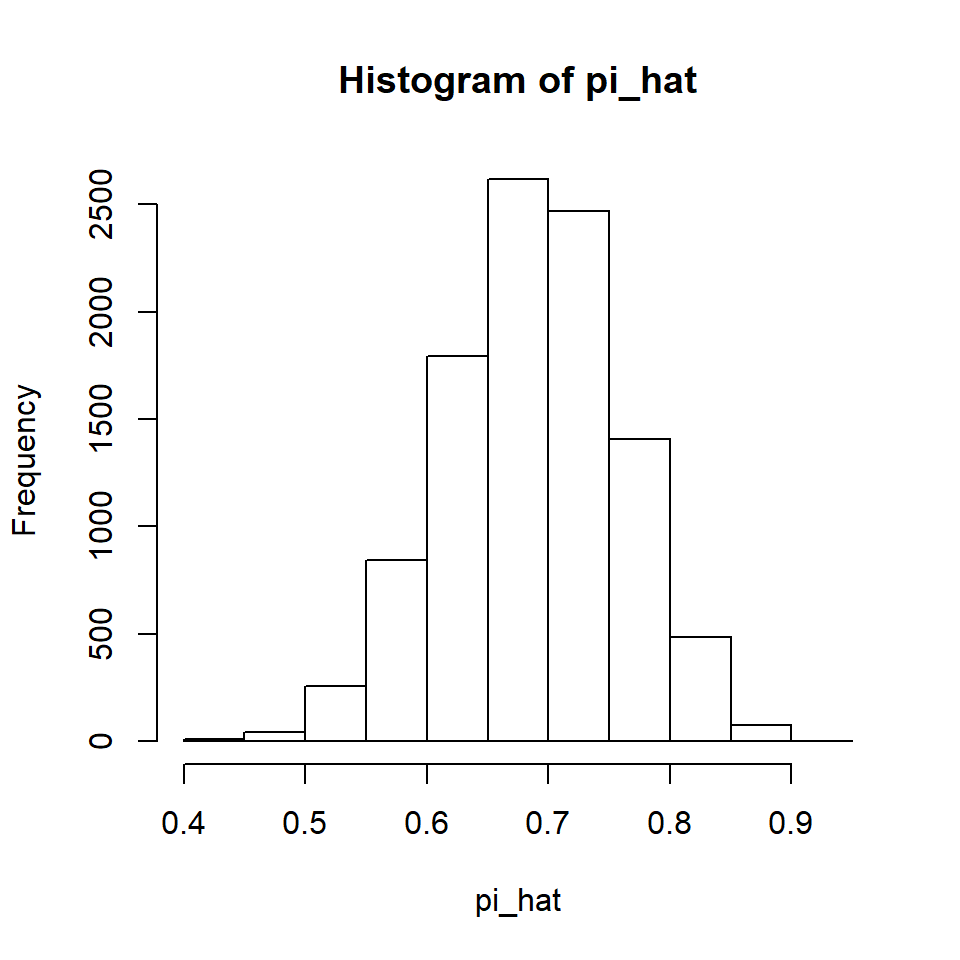
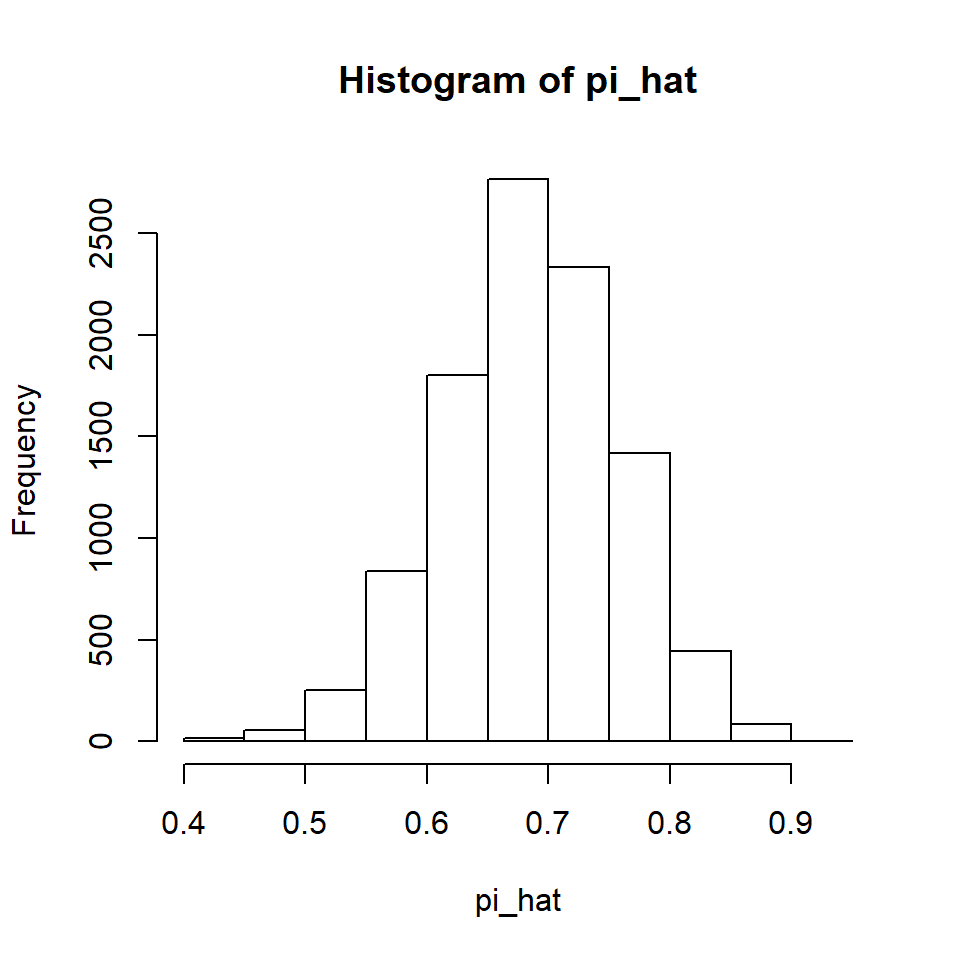
Version 0.0.0.9009 in master

diff --git a/docs/articles/lsprop.html b/docs/articles/lsprop.html
@@ -115,8 +115,8 @@
 <span id="cb2-2"><a href="#cb2-2"></a>pi &lt;-<span class="st"> </span><span class="fl">0.7</span></span>
 <span id="cb2-3"><a href="#cb2-3"></a></span>
 <span id="cb2-4"><a href="#cb2-4"></a><span class="kw"><a href="https://www.rdocumentation.org/packages/Rlab/topics/Bernoulli">rbern</a></span>(n, pi)</span>
-<span id="cb2-5"><a href="#cb2-5"></a><span class="co">#&gt;  [1] 0 1 1 1 1 1 1 1 1 0 1 0 0 1 0 0 1 1 1 1 1 1 0 1 0 1 1 0 1 1 0 0 1 0 0</span></span>
-<span id="cb2-6"><a href="#cb2-6"></a><span class="co">#&gt; [36] 1 0 1 1 0</span></span></code></pre></div>
+<span id="cb2-5"><a href="#cb2-5"></a><span class="co">#&gt;  [1] 1 0 1 1 1 1 1 1 0 0 1 1 0 0 1 1 1 1 0 1 1 1 1 1 1 0 1 0 0 1 1 1 1 1 1</span></span>
+<span id="cb2-6"><a href="#cb2-6"></a><span class="co">#&gt; [36] 1 1 1 0 0</span></span></code></pre></div>
 <p>Now we will repeat this simulation 10,000 times. Each time, we will calculate the proportion success in the sample and save it.</p>
 <div class="sourceCode" id="cb3"><pre class="sourceCode r"><code class="sourceCode r"><span id="cb3-1"><a href="#cb3-1"></a>reps &lt;-<span class="st"> </span><span class="dv">10000</span></span>
 <span id="cb3-2"><a href="#cb3-2"></a></span>
@@ -126,7 +126,7 @@
 <p><img src="lsprop_files/figure-html/unnamed-chunk-4-1.png" width="480"></p>
 <p>We can see the CLT at work. Further, note that if we calculate the mean of all 10,000 values of the sample proportions, it is quite close to the population proportion of 0.7.</p>
 <div class="sourceCode" id="cb5"><pre class="sourceCode r"><code class="sourceCode r"><span id="cb5-1"><a href="#cb5-1"></a><span class="kw"><a href="https://www.rdocumentation.org/packages/base/topics/mean">mean</a></span>(pi_hat)</span>
-<span id="cb5-2"><a href="#cb5-2"></a><span class="co">#&gt; [1] 0.700245</span></span></code></pre></div>
+<span id="cb5-2"><a href="#cb5-2"></a><span class="co">#&gt; [1] 0.6993775</span></span></code></pre></div>
 <p>When the mean of a statistic’s sampling distribution is the population value of the parameter the statistic is estimating, we refer to the statistic as <em>unbiased</em>. This is a desirable property because it tells us that the average of many wrongs is a right!</p>
 <p>If we increase the sample size, we can see the Law of Large Numbers at work. Let’s try increasing it from 40 to 200.</p>
 <div class="sourceCode" id="cb6"><pre class="sourceCode r"><code class="sourceCode r"><span id="cb6-1"><a href="#cb6-1"></a>n &lt;-<span class="st"> </span><span class="dv">200</span></span>

diff --git a/docs/articles/binomdist.html b/docs/articles/binomdist.html
@@ -282,7 +282,7 @@
 <p>The important trick to remember here is that if we want an upper tail that includes a specified value (in this case, the value of eight), we need to subtract one from this value to make sure it is included in the upper region of the distribution.</p>
 <p>Finally, suppose we wanted to do a simulation using the binomial distribution. Here are 20 random draws from a distribution with <span class="math inline">\(\pi\)</span> = 0.8 when the sample size is 15.</p>
 <div class="sourceCode" id="cb37"><pre class="sourceCode r"><code class="sourceCode r"><span id="cb37-1"><a href="#cb37-1"></a><span class="kw"><a href="https://www.rdocumentation.org/packages/stats/topics/Binomial">rbinom</a></span>(<span class="dv">20</span>, <span class="dv">15</span>, <span class="fl">0.8</span>)</span>
-<span id="cb37-2"><a href="#cb37-2"></a><span class="co">#&gt;  [1] 10  9 11 14 12 12 12 12 11 12 14 12 12 14 13 11 14 13 12 12</span></span></code></pre></div>
+<span id="cb37-2"><a href="#cb37-2"></a><span class="co">#&gt;  [1] 13 12 11 12 11 14 13 13 12 10 13 15  9 10 12 13  8 13 13 10</span></span></code></pre></div>
 <p>Keep in mind that what each number we are randomly generating is the value of <span class="math inline">\(x\)</span>, which is the number of successes in <span class="math inline">\(n\)</span> trials. In this example there are 15 opportunities for success. The probability of success is quite high, so we are primarily seeing high numbers of successes out of the 15 trials.</p>
 <p>In this example, we were drawing from a binomial distribution with <span class="math inline">\(n\)</span> trials and a probability of success, <span class="math inline">\(\pi\)</span>. These are the parameters of the binomial distribution. Any binomial distribution can be generated if we know these two parameters. Let’s end with a picture of a binomial distribution when <span class="math inline">\(n\)</span> = 100 and <span class="math inline">\(\pi\)</span> = 0.5.</p>
 <div class="sourceCode" id="cb38"><pre class="sourceCode r"><code class="sourceCode r"><span id="cb38-1"><a href="#cb38-1"></a><span class="kw"><a href="../reference/binom_plot.html">binom_plot</a></span>(<span class="dv">100</span>, <span class="fl">0.5</span>)</span></code></pre></div>

diff --git a/docs/articles/Bernoulli-Events.html b/docs/articles/Bernoulli-Events.html
@@ -195,10 +195,10 @@
 <a href="#random-variates" class="anchor"></a>Random variates</h3>
 <p>R also has (r) functions for many distributions (e.g., rnorm and rbern). These provide us a specified number of randomly seleted values from the corresponding distribution. These are known as “random variates”. This will be very handy when we study concepts such as Monte Carlo methods.</p>
 <div class="sourceCode" id="cb15"><pre class="sourceCode r"><code class="sourceCode r"><span id="cb15-1"><a href="#cb15-1"></a><span class="kw"><a href="https://www.rdocumentation.org/packages/stats/topics/Normal">rnorm</a></span>(<span class="dv">10</span>)</span>
-<span id="cb15-2"><a href="#cb15-2"></a><span class="co">#&gt;  [1] -0.3018779  0.1749264 -0.8657828 -0.3663297  2.0149144  0.9609493</span></span>
-<span id="cb15-3"><a href="#cb15-3"></a><span class="co">#&gt;  [7] -1.4893730  1.1600762 -0.9631322  2.0694955</span></span>
+<span id="cb15-2"><a href="#cb15-2"></a><span class="co">#&gt;  [1] -2.1103707  0.4698937 -0.5272579 -0.1221517  0.0620785  0.7662863</span></span>
+<span id="cb15-3"><a href="#cb15-3"></a><span class="co">#&gt;  [7] -0.1004652  1.5829366  0.1003272  0.4926329</span></span>
 <span id="cb15-4"><a href="#cb15-4"></a><span class="kw">rbern</span>(<span class="dv">10</span>, <span class="fl">0.7</span>)</span>
-<span id="cb15-5"><a href="#cb15-5"></a><span class="co">#&gt;  [1] 0 0 1 1 1 1 0 1 1 1</span></span></code></pre></div>
+<span id="cb15-5"><a href="#cb15-5"></a><span class="co">#&gt;  [1] 1 1 0 1 1 1 0 1 0 1</span></span></code></pre></div>
 </div>
   </div>
 

diff --git a/doc/Bernoulli-Events.html b/doc/Bernoulli-Events.html
@@ -398,8 +398,8 @@ code > span.fu { color: #900; font-weight: bold; }  code > span.er { color: #a61
 <h3>Random variates</h3>
 <p>R also has (r) functions for many distributions (e.g., rnorm and rbern). These provide us a specified number of randomly seleted values from the corresponding distribution. These are known as “random variates”. This will be very handy when we study concepts such as Monte Carlo methods.</p>
 <div class="sourceCode" id="cb15"><pre class="sourceCode r"><code class="sourceCode r"><span id="cb15-1"><a href="#cb15-1"></a><span class="kw">rnorm</span>(<span class="dv">10</span>)</span>
-<span id="cb15-2"><a href="#cb15-2"></a><span class="co">#&gt;  [1]  0.1070289  0.2677701  0.6627289  0.3161727 -0.3022227 -0.5834758</span></span>
-<span id="cb15-3"><a href="#cb15-3"></a><span class="co">#&gt;  [7]  0.3552438 -0.6241629  0.5816988 -1.9419521</span></span>
+<span id="cb15-2"><a href="#cb15-2"></a><span class="co">#&gt;  [1] -0.8503139  1.1781213  0.7143927  1.0583908  1.3916173  0.8919710</span></span>
+<span id="cb15-3"><a href="#cb15-3"></a><span class="co">#&gt;  [7] -0.8537857 -1.5343496 -1.1256994 -1.4267873</span></span>
 <span id="cb15-4"><a href="#cb15-4"></a><span class="kw">rbern</span>(<span class="dv">10</span>, <span class="fl">0.7</span>)</span>
 <span id="cb15-5"><a href="#cb15-5"></a><span class="co">#&gt;  [1] 1 1 1 1 1 0 1 1 1 1</span></span></code></pre></div>
 </div>
